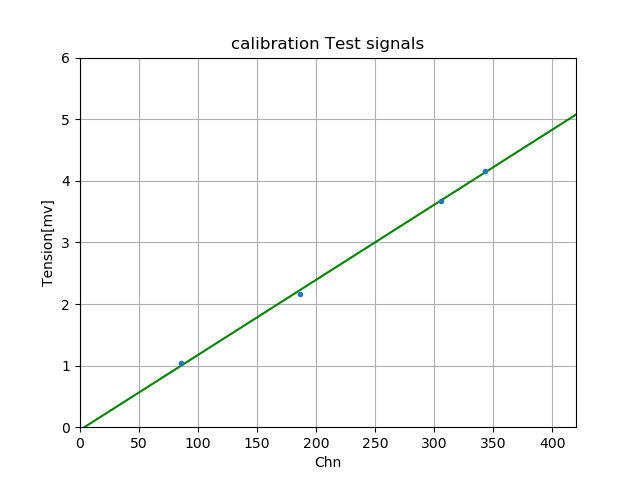
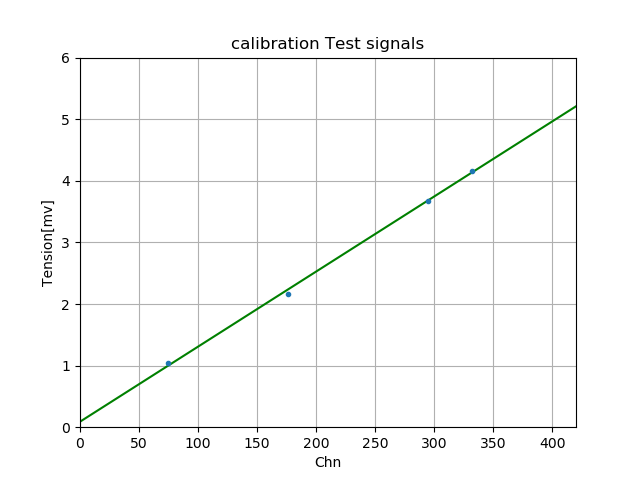
corrected code for siliconv3

diff --git a/SILICONDETECTORS/GRUPPO3FISMEDJLS/New_Full_programV2.py b/SILICONDETECTORS/GRUPPO3FISMEDJLS/New_Full_programV2.py
@@ -231,9 +231,9 @@ def f1(x,m,q):
 
 
 
-popt, pcov= curve_fit(f1, np.abs(chn), tension, (0.,0.),fwhm,absolute_sigma=False)
+popt, pcov= curve_fit(f1, np.abs(chn)-11, tension, (0.,0.),fwhm,absolute_sigma=False)
 DOF=len(chn)-3
-chi2_1 = sum(((f1(np.abs(chn),*popt)-np.abs(tension))/np.abs(fwhm))**2)
+chi2_1 = sum(((f1(np.abs(chn)-11,*popt)-np.abs(tension))/np.abs(fwhm))**2)
 dm,dq= np.sqrt(pcov.diagonal())
 chi2_1redux=chi2_1/DOF
 
@@ -248,12 +248,12 @@ print('il coefficiente angolare per la calibrazione del segnale test MILLIVOLT V
 print('il chi2 per la calibrazione  MILLIVOLT VS CHANNEL del segnale test è=%.3f, i DOF sono=%.3f' % (chi2_1, DOF))
 print('il chi2 ridotto per la calibrazione  MILLIVOLT VS CHANNEL del segnale test è=%.3f '% (chi2_1redux))
 print('il pvalue per la calibrazione  MILLIVOLT VS CHANNEL del segnale test è=%.3f'% (pvalue))
-print('la funzione per la calibrazione  MILLIVOLT VS CHANNEL dei segnali test è ENERGY = %.2f * CHANNEL + %.2f -11'%(m,q))
+print('la funzione per la calibrazione  MILLIVOLT VS CHANNEL dei segnali test è ENERGY = %.2f * CHANNEL + %.2f '%(m,q))
 ##plot
 pylab.figure('calibrazioneMVvsCHN')
 
 
-pylab.errorbar( chn, tension, 0 , fmt= '.', ecolor= 'magenta')
+pylab.errorbar( np.abs(chn)-11, tension, 0 , fmt= '.', ecolor= 'magenta')
 
 pylab.xlabel('Chn')
 pylab.ylabel('Tension[mv]')
@@ -268,9 +268,9 @@ pylab.savefig('calibration_test_signals.png')
 pylab.show()
 pylab.close()
 ##calibration for the corresponding energy of test signal
-popt, pcov= curve_fit(f1, chn, energymvmv, (0.,0.),fwhm,absolute_sigma=False)
+popt, pcov= curve_fit(f1, np.abs(chn)-11, energymvmv, (0.,0.),fwhm,absolute_sigma=False)
 DOF=len(chn)-3
-chi2_1 = sum(((f1(chn,*popt)-energymvmv)/fwhm)**2)
+chi2_1 = sum(((f1(np.abs(chn)-11,*popt)-energymvmv)/fwhm)**2)
 dm,dq= np.sqrt(pcov.diagonal())
 chi2_1redux=chi2_1/DOF
 
@@ -285,12 +285,12 @@ print('il coefficiente angolare per la calibrazione del segnale ENERGY VS CHANNE
 print('il chi2 per la calibrazione del segnale test è=%.3f, i DOF sono=%.3f' % (chi2_1, DOF))
 print('il chi2 ridotto per la calibrazione ENERGY VS CHANNEL del segnale test è=%.3f '% (chi2_1redux))
 print('il pvalue per la calibrazione ENERGY VS CHANNEL del segnale test è=%.3f'% (pvalue))
-print('la funzione per la calibrazione ENERGY VS CHANNEL dei segnali test è ENERGY = %.2f * CHANNEL + %.2f -11'%(m,q))
+print('la funzione per la calibrazione ENERGY VS CHANNEL dei segnali test è ENERGY = %.2f * CHANNEL + %.2f '%(m,q))
 
 pylab.figure('calibrazione EvsCHN')
 
 
-pylab.errorbar( chn, energymvmv, fwhm , fmt= '.', ecolor= 'magenta')
+pylab.errorbar( np.abs(chn)-11, energymvmv, fwhm , fmt= '.', ecolor= 'magenta')
 
 pylab.xlabel('Chn')
 pylab.ylabel('Energy [KeV]')
